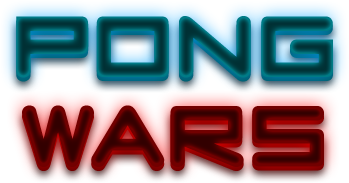
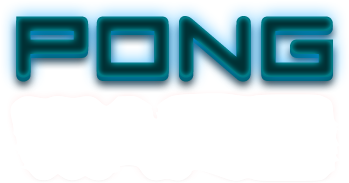
main menu image

diff --git a/assets/scripts/ScreenMainMenu.js b/assets/scripts/ScreenMainMenu.js
@@ -111,7 +111,9 @@ NORD.ScreenMainMenu = function(config) {
     texture: 'pongDim',
     aX: 0.5,
     aY: 0.5,
+    y: -10,
     scaleXY: 1,
+    alpha: 0.6,
   });
 
   this.imageMask = Util.createSprite({
@@ -119,7 +121,7 @@ NORD.ScreenMainMenu = function(config) {
     texture: 'mask',
     aX: 0.5,
     aY: 0.5,
-    x: 200,
+    x: 300,
     scaleXY: 1,
   });
   this.ponglogoDim.mask = this.imageMask;
@@ -143,6 +145,51 @@ NORD.ScreenMainMenu = function(config) {
       onComplete: function onComplete() {
         setTimeout(function() {
           moveMaskLayerFront();
+        }, 1000);
+      }
+    });
+  };
+
+
+  this.ponglogoDim1 = Util.createSprite({
+    parent: logo1,
+    texture: 'warDim',
+    aX: 0.5,
+    aY: 0.5,
+    y: -10,
+    scaleXY: 1,
+    alpha: 0.6,
+  });
+
+  this.imageMask1 = Util.createSprite({
+    parent: logo1,
+    texture: 'mask',
+    aX: 0.5,
+    aY: 0.5,
+    x: -300,
+    scaleXY: 1,
+  });
+  this.ponglogoDim1.mask = this.imageMask1;
+
+  moveMaskLayerBack1();
+
+  function moveMaskLayerFront1() {
+    TweenMax.to(self.imageMask1, 2, {
+      x: -300,
+      onComplete: function onComplete() {
+        setTimeout(function() {
+          moveMaskLayerBack1();
+        }, 1000);
+      }
+    });
+  };
+
+  function moveMaskLayerBack1() {
+    TweenMax.to(self.imageMask1, 2, {
+      x: 300,
+      onComplete: function onComplete() {
+        setTimeout(function() {
+          moveMaskLayerFront1();
         }, 1000);
       }
     });

diff --git a/assets/scripts/App.js b/assets/scripts/App.js
@@ -565,6 +565,9 @@ NORD.initGameDefinitions = function() {
     name: 'pongDim',
     url: 'assets/images/title/pongDim.png'
   }, {
+    name: 'warDim',
+    url: 'assets/images/title/warsDim.png'
+  }, {
     name: 'Pong',
     url: 'assets/images/title/Pong.png'
   }, {
